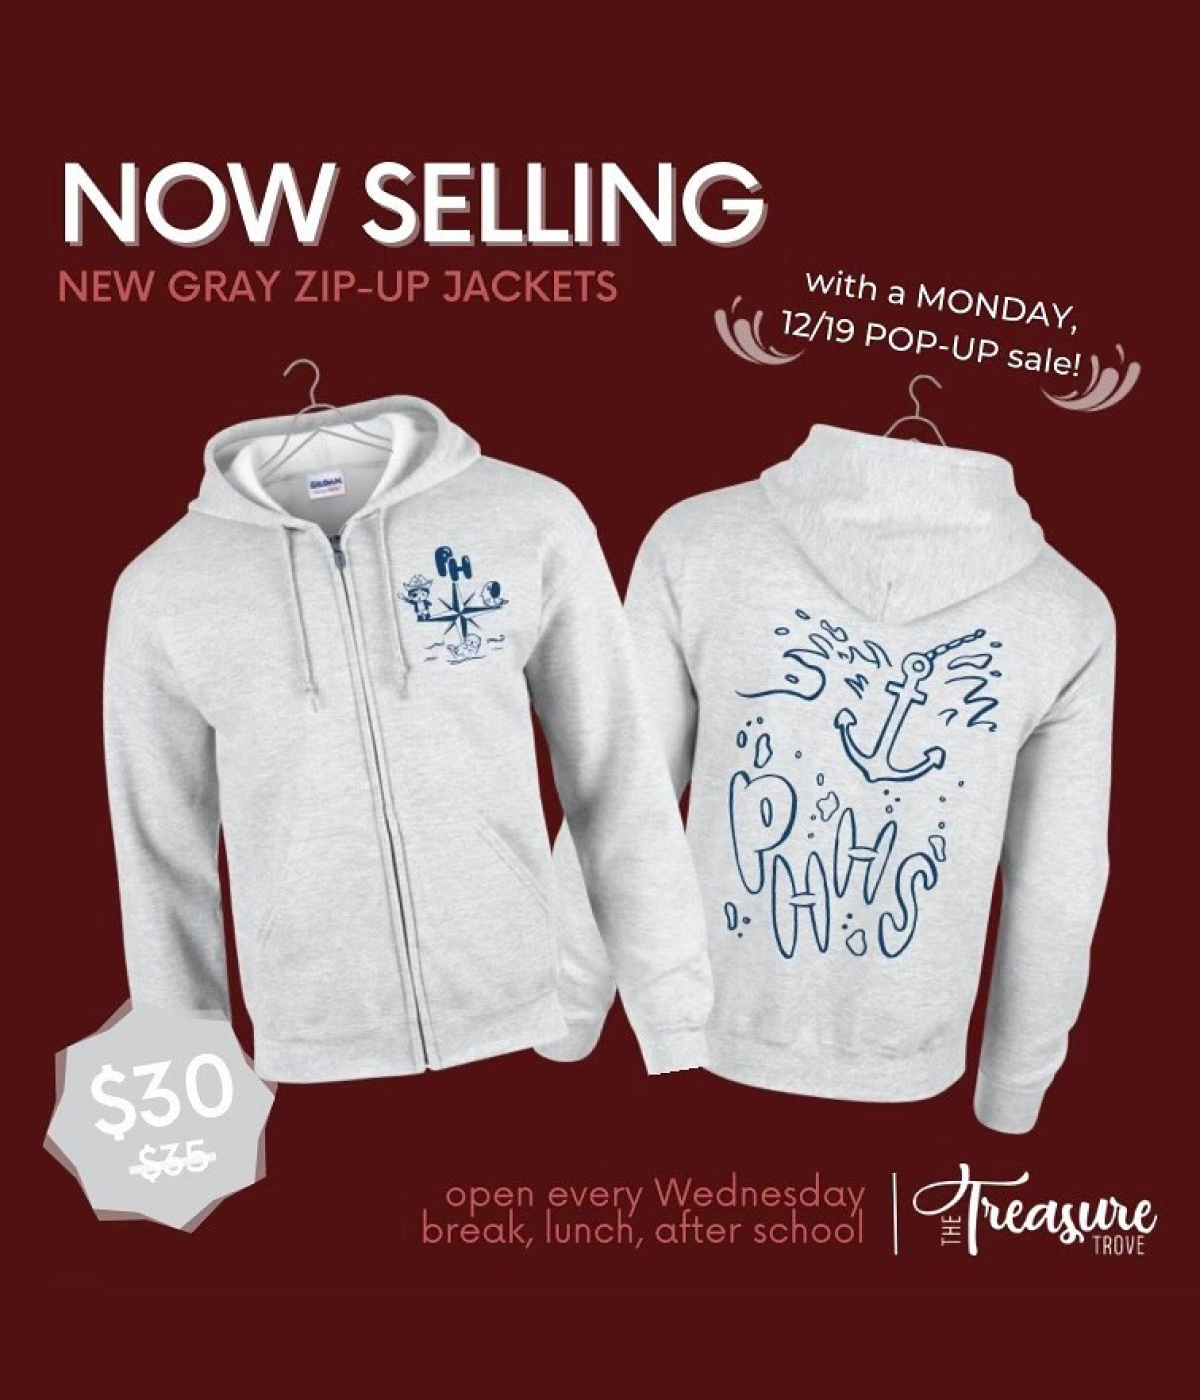
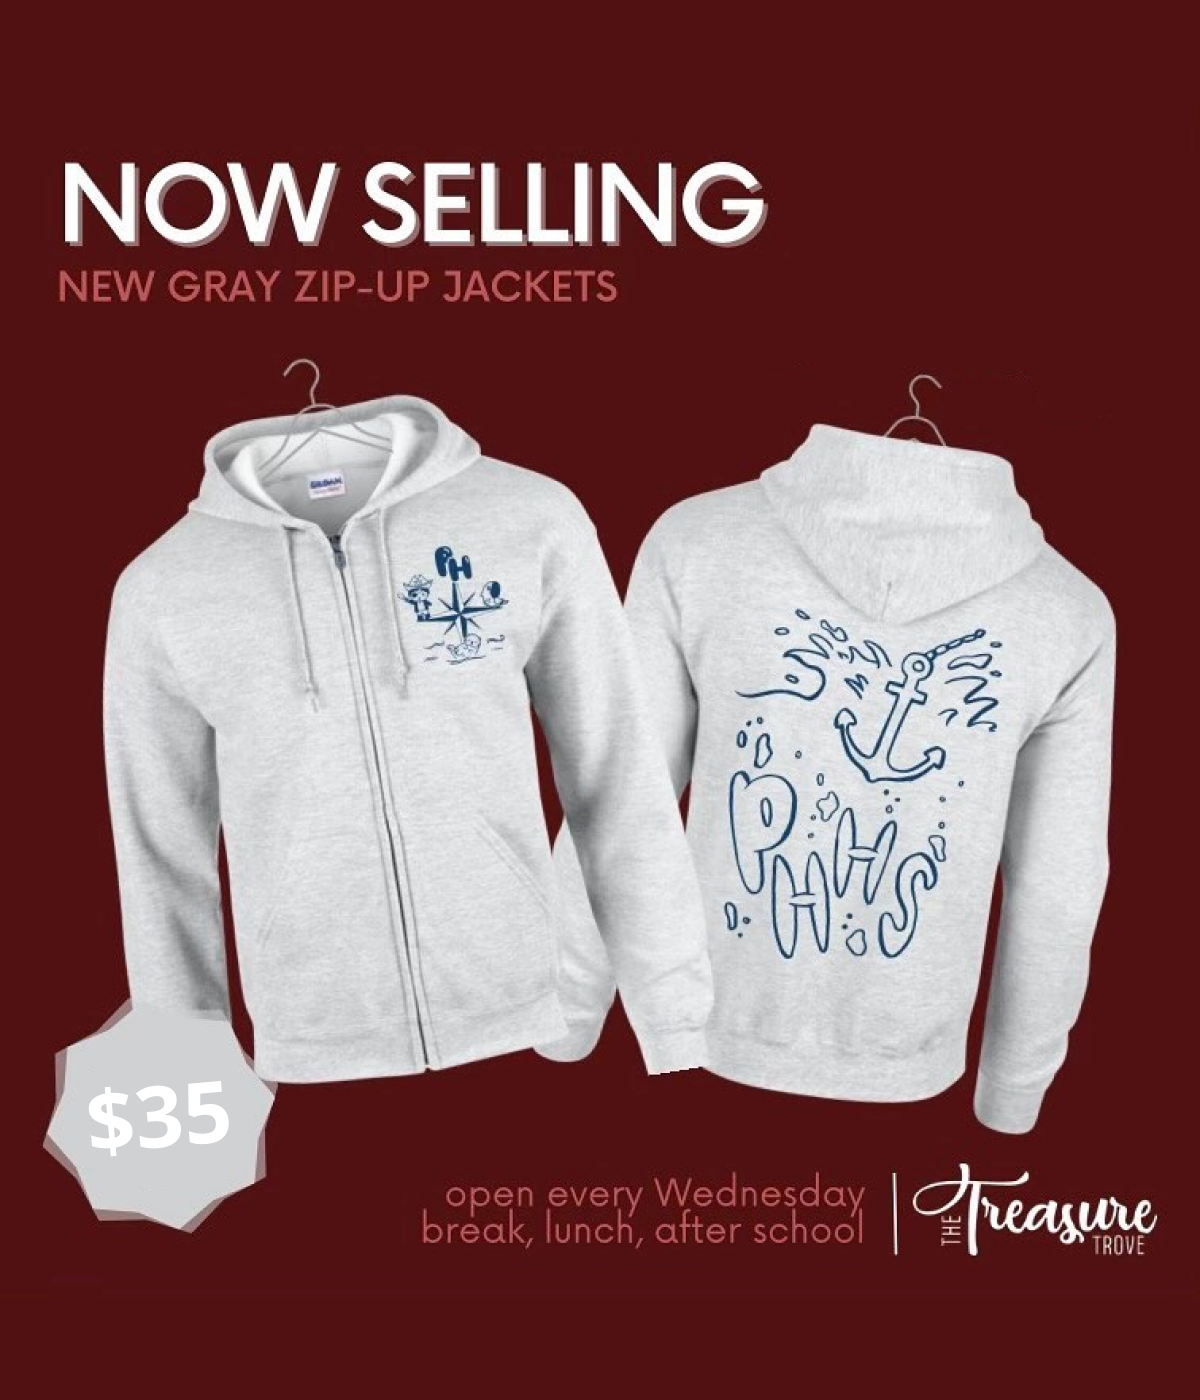
update slideShow + tt

Changed region(s): [[0.5858, 0.1843, 0.9558, 0.3071], [0.0617, 0.7371, 0.2158, 0.86]]

diff --git a/src/pages/Home/components/Slider/dataSlider.js b/src/pages/Home/components/Slider/dataSlider.js
@@ -3,12 +3,6 @@ import { v4 as uuidv4 } from "uuid";
 const dataSlider = [
   {
     id: uuidv4(),
-    title: "Treasure Trove New Items!!!",
-    subTitle: "tt on sale!",
-    link: "https://insaneink.com/treasuretrove",
-  },
-  {
-    id: uuidv4(),
     title: "Back in Business!",
     subTitle: "Opening Message",
     link: "https://insaneink.com/howitworks",

diff --git a/src/pages/TreasureTrove/dataTT.js b/src/pages/TreasureTrove/dataTT.js
@@ -4,7 +4,7 @@ const dataSlider = [
   {
     id: uuidv4(),
     name: "Anchor Zip Up",
-    price: "On Sale! $30.00",
+    price: "$35.00",
     description: "Our new full zip-up is perfect for the winter cold and the new semester, or even as a last minute Christmas gift for your friends and family! Only available in gray.",
     featured: false,
     sizes: [
